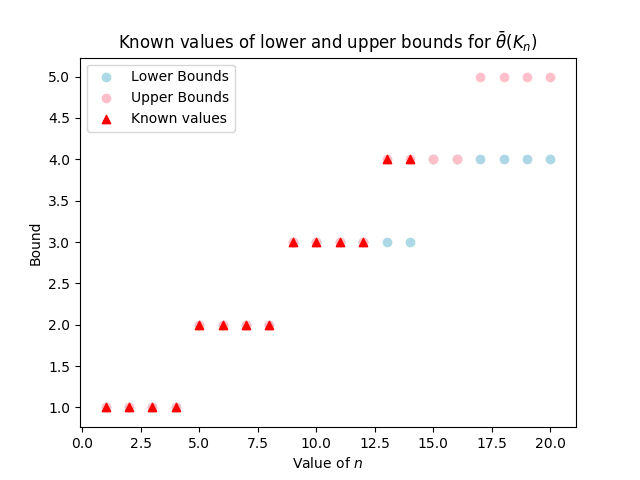
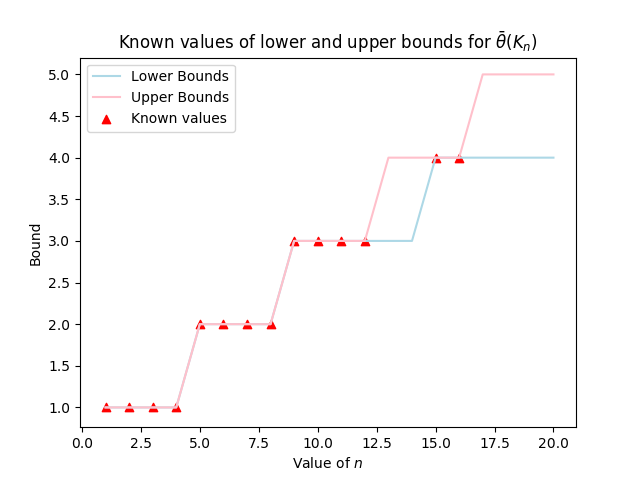
DAG
Fixed images

diff --git a/Discrete and Algorithmic Geometry/First_values.py b/Discrete and Algorithmic Geometry/First_values.py
@@ -16,6 +16,7 @@ upper_bound = [1, 1, 1, 1, 2, 2, 2, 2, 3, 3, 3, 3, 4, 4, 4, 4, 5, 5, 5, 5, 6, 6,
 
 
 known_values = [lower_bound[i] for i in range(0, len(lower_bound)) if lower_bound[i] == upper_bound[i]]
+X_known_values = [i+1 for i in range(0, len(lower_bound)) if lower_bound[i] == upper_bound[i]]
 
 ## Draw the grafics
 
@@ -45,10 +46,13 @@ plt.show()
 
 fig = plt.figure()
 ax = fig.add_subplot(111)
-ax.scatter(x[:20], lower_bound[:20], color = 'lightblue', label = 'Lower Bounds')
-ax.scatter(x[:20], upper_bound[:20], color = 'pink', label = 'Upper Bounds')
+#ax.scatter(x[:20], lower_bound[:20], color = 'lightblue', label = 'Lower Bounds')
+#ax.scatter(x[:20], upper_bound[:20], color = 'pink', label = 'Upper Bounds')
 
-ax.scatter([i for i in range(1, len(known_values) + 1)], known_values, marker = '^', color = 'red', label = 'Known values')
+ax.plot(x[:20], lower_bound[:20], color = 'lightblue', label = 'Lower Bounds')
+ax.plot(x[:20], upper_bound[:20], color = 'pink', label = 'Upper Bounds')
+
+ax.scatter(X_known_values, known_values, marker = '^', color = 'red', label = 'Known values')
 
 plt.title(r'Known values of lower and upper bounds for $\bar \theta (K_{n})$')
 ax.set_xlabel(r'Value of $n$')
@@ -69,16 +73,18 @@ plt.show()
 
 fig, ax = plt.subplots()
 
-ax.scatter(x[:16], lower_bound[:16], color = 'lightblue', label = 'Lower Bounds')
-ax.scatter(x[:16], upper_bound[:16], color = 'pink', label = 'Upper Bounds')
-ax.scatter([i for i in range(1, len(known_values) + 1)], known_values, marker = '^', color = 'red', label = 'Known values')
+#ax.scatter(x[:16], lower_bound[:16], color = 'lightblue', label = 'Lower Bounds')
+#ax.scatter(x[:16], upper_bound[:16], color = 'pink', label = 'Upper Bounds')
+ax.plot(x[:16], lower_bound[:16], color = 'lightblue', label = 'Lower Bounds')
+ax.plot(x[:16], upper_bound[:16], color = 'pink', label = 'Upper Bounds')
+ax.scatter(X_known_values, known_values, marker = '^', color = 'red', label = 'Known values')
 
 
 ax.set_title(r'Known values of lower and upper bounds for $\bar \theta (K_{n})$')
-ax.set_xticks([i for i in range(1, len(known_values) + 1)])
-ax.set_xticklabels([str(i) for i in range(1, len(known_values) + 1)])
+ax.set_xticks([i for i in X_known_values])
+ax.set_xticklabels([str(i) for i in X_known_values])
 
-plt.annotate(r'Last known value of $\bar \theta (K_{n})$ is for  $n = 14$', xy = (14, known_values[-1]),
+plt.annotate(r'Last known value of $\bar \theta (K_{n})$ is for  $n = 16$', xy = (16, known_values[-1]),
              xytext = (7, known_values[-1] - 0.6), arrowprops = dict(facecolor = 'black', shrink = 0.05))
 
 ax.set_xlabel(r'Value of $n$')
